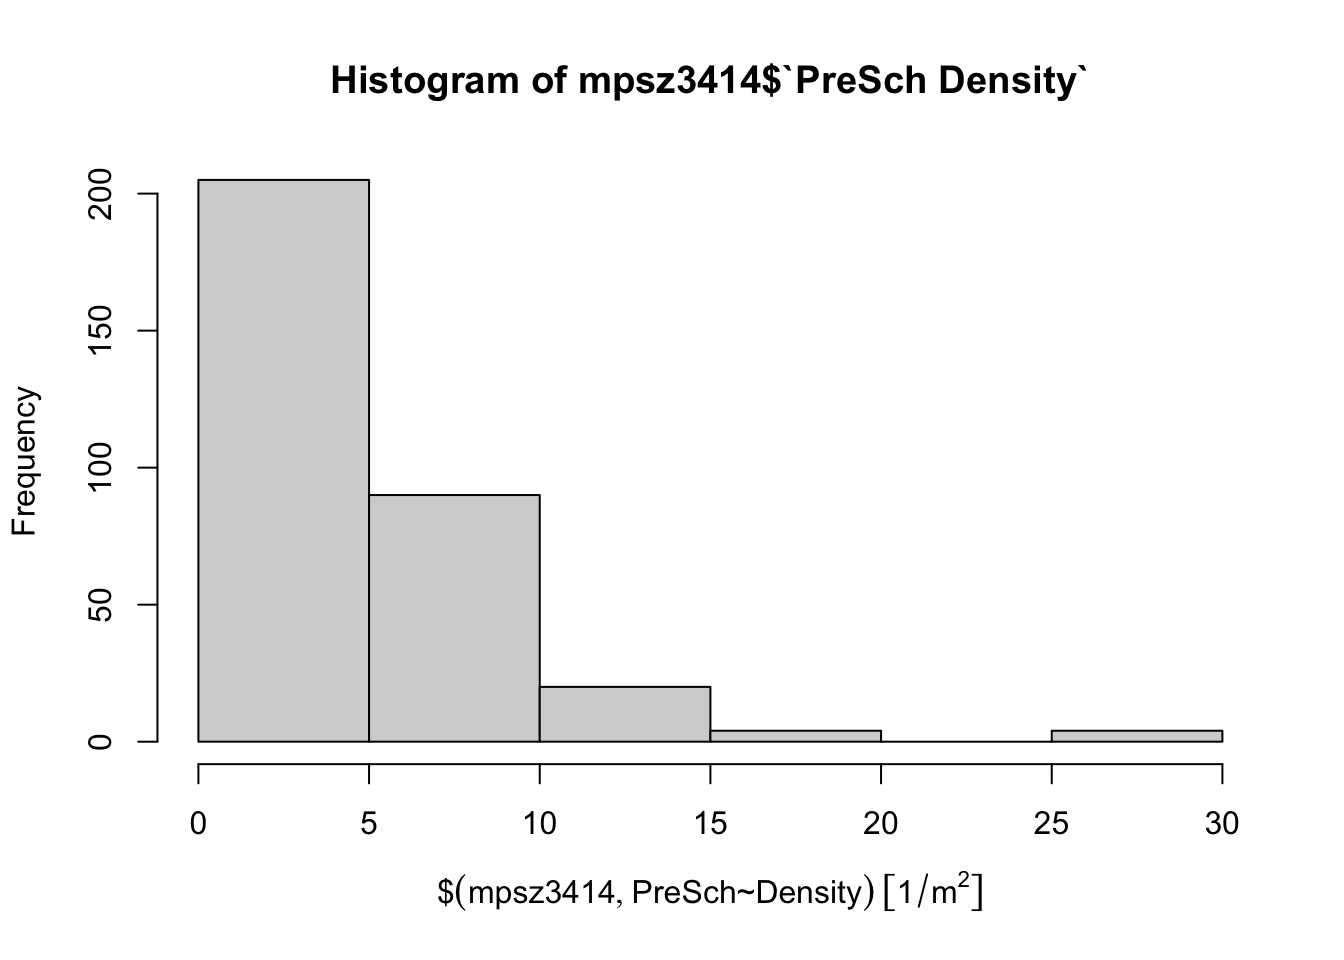
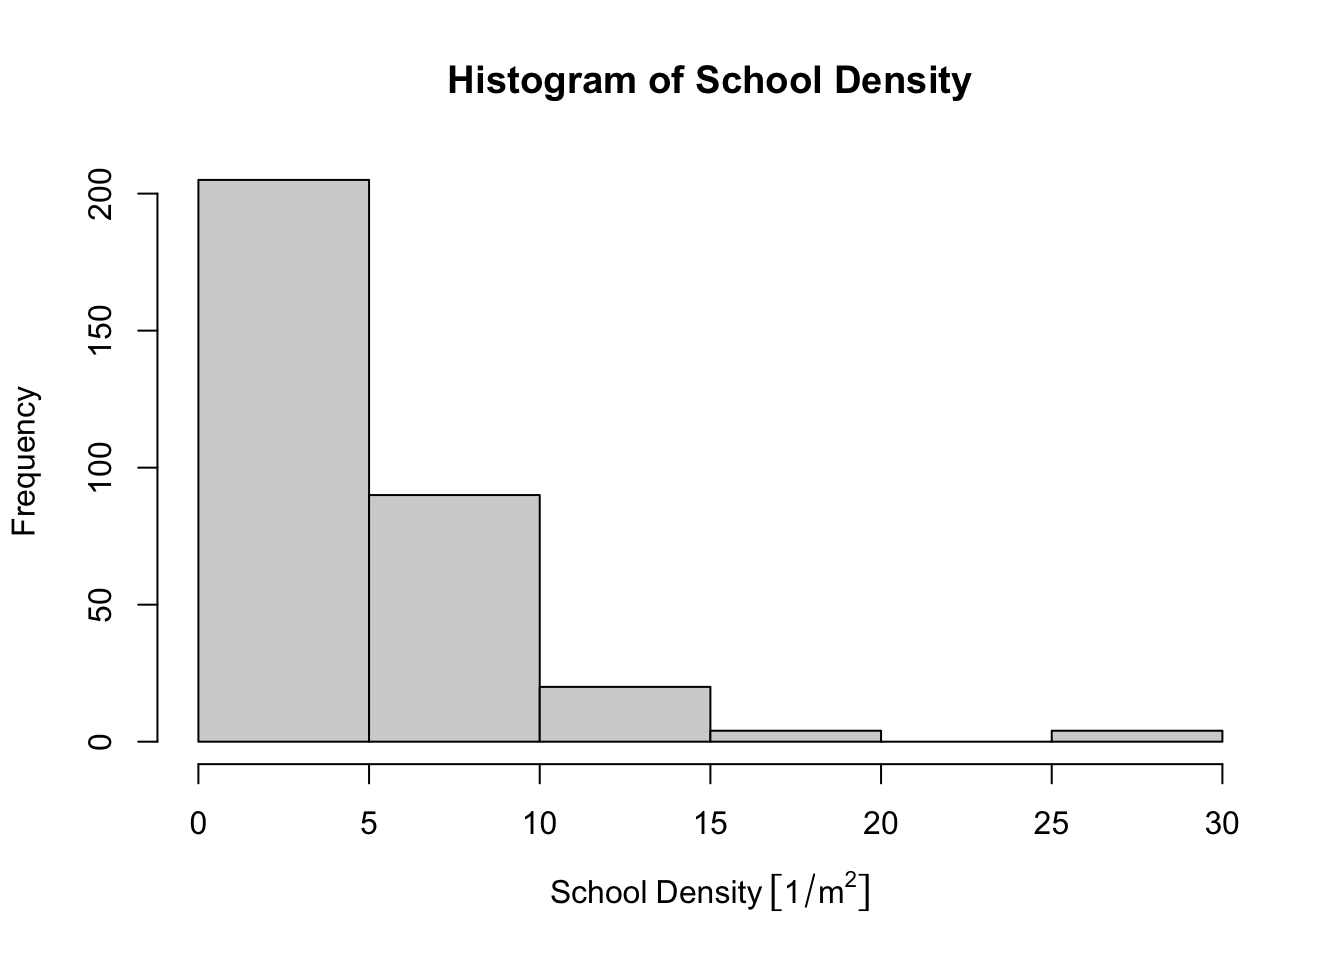
Graph revision 3

Changed region(s): [[0.25, 0.0625, 0.8125, 0.125], [0.3125, 0.9062, 0.75, 0.9688]]

diff --git a/_site/Hands-on_Ex01/Hands-on_Ex01.html b/_site/Hands-on_Ex01/Hands-on_Ex01.html
@@ -761,7 +761,7 @@ corrupt data frame: columns will be truncated or padded with NAs</code></pre>
 <h2 class="anchored" data-anchor-id="exploratory-data-analysis">Exploratory Data Analysis</h2>
 <p>Firstly, we will plot a histogram to reveal the distribution of <code>PreSch Density</code>. Conventionally, <em>hist()</em> of R Graphics will be used as shown in the code chunk below.</p>
 <div class="cell">
-<div class="sourceCode cell-code" id="cb66"><pre class="sourceCode r code-with-copy"><code class="sourceCode r"><span id="cb66-1"><a href="#cb66-1" aria-hidden="true" tabindex="-1"></a><span class="fu">hist</span>(mpsz3414<span class="sc">$</span><span class="st">`</span><span class="at">PreSch Density</span><span class="st">`</span>)</span></code><button title="Copy to Clipboard" class="code-copy-button"><i class="bi"></i></button></pre></div>
+<div class="sourceCode cell-code" id="cb66"><pre class="sourceCode r code-with-copy"><code class="sourceCode r"><span id="cb66-1"><a href="#cb66-1" aria-hidden="true" tabindex="-1"></a><span class="fu">hist</span>(mpsz3414<span class="sc">$</span><span class="st">`</span><span class="at">PreSch Density</span><span class="st">`</span>, <span class="at">main =</span> <span class="st">"Histogram of School Density"</span>, <span class="at">xlab =</span> <span class="st">"School Density"</span>)</span></code><button title="Copy to Clipboard" class="code-copy-button"><i class="bi"></i></button></pre></div>
 <div class="cell-output-display">
 <p><img src="Hands-on_Ex01_files/figure-html/unnamed-chunk-31-1.png" class="img-fluid" width="672"></p>
 </div>
